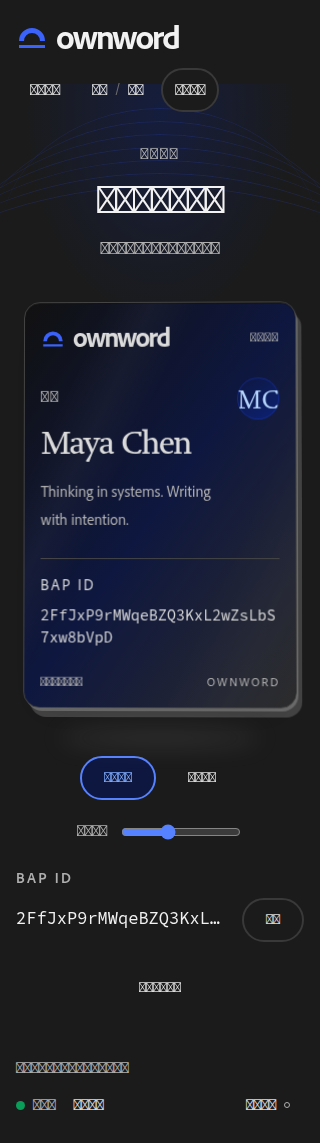
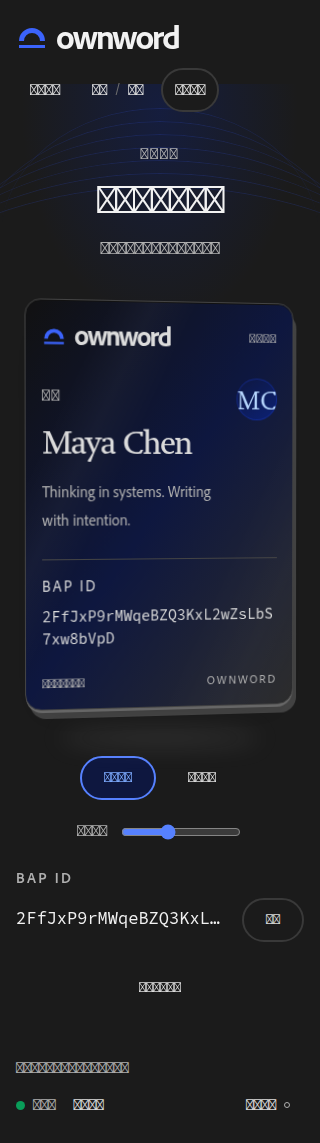
主题一致性：8 屏深浅布局零位移断言与状态机移植契约 (PRD v0.1_20260909-195114)

diff --git a/check-browser.py b/check-browser.py
@@ -103,8 +103,22 @@ def pref(locale='en', theme='light'):
 
 WIDTHS = (320, 390, 768, 960)
 
+def freeze_animations():
+    """Pin every running animation to t=0 so layout signatures are deterministic."""
+    js('document.getAnimations().forEach(a=>{a.currentTime=0;a.pause()});true')
+
+def resume_animations():
+    js('document.getAnimations().forEach(a=>a.play());true')
+
+def layout_signature():
+    freeze_animations()
+    signature = js('JSON.stringify(Array.from(document.querySelectorAll("main button, main h1, main .identifier, main .person-row, main .page-heading")).map(e=>{const r=e.getBoundingClientRect();return [Math.round(r.x),Math.round(r.y),Math.round(r.width),Math.round(r.height)]}))')
+    resume_animations()
+    return signature
+
 def inspect(label, matrix=False):
     combinations = [('en', 'light'), ('en', 'dark'), ('zh', 'light'), ('zh', 'dark')] if matrix else [('en', 'light')]
+    light_layout = None
     for locale, theme in combinations:
         pref(locale, theme)
         for width in WIDTHS:
@@ -112,6 +126,15 @@ def inspect(label, matrix=False):
             settle()
             expect('document.documentElement.scrollWidth <= innerWidth', f'{label} {locale}/{theme} {width}px no page overflow')
             expect('Array.from(document.querySelectorAll("main button, main input:not([hidden]), main textarea")).filter(e=>e.getBoundingClientRect().width).every(e=>{const r=e.getBoundingClientRect();return r.left>=-1&&r.right<=innerWidth+1})', f'{label} {locale}/{theme} {width}px controls fit')
+        if locale == 'en':
+            call('set', 'viewport', 390, 800); settle()
+            signature = layout_signature()
+            if theme == 'light':
+                light_layout = signature
+            else:
+                assert signature == light_layout, f'{label}: layout shifted between light and dark\n{light_layout}\n{signature}'
+                results.append(f'{label} en light and dark layouts match')
+                print(f'PASS {label} en light and dark layouts match', flush=True)
         call('set', 'viewport', 320, 800)
         settle()
         expect('Array.from(document.querySelectorAll("main button, main input:not([hidden]), main textarea")).filter(e=>e.getBoundingClientRect().width).every(e=>{const r=e.getBoundingClientRect();return r.width>=24&&r.height>=44})', f'{label} {locale}/{theme} 320px touch targets')

diff --git a/implementation-handoff.md b/implementation-handoff.md
@@ -32,6 +32,40 @@
 
 `check-model.cjs` 是这套契约的可执行回归测试，生产实现应保留等价断言。
 
+动作与转移（`model.js` 的 `reducer`，可直接照搬）：
+
+| 动作 | 效果 |
+| --- | --- |
+| `CONNECT` | 打开钱包确认弹窗 |
+| `CONNECTED` | `wallet=true`、进入 `resolving`、`epoch+1` |
+| `RESOLVED {scenario}` | `resolveFail` → `resolve-error`；`existing` → `identity`；`incomplete` → `setup` 且 `incomplete=true`；否则 → `setup` |
+| `RETRY_RESOLVE` | 重新进入 `resolving`、`epoch+1` |
+| `CONNECT_FAILED` | `error=connectFailed`、关闭弹窗 |
+| `DRAFT {field,value}` | 只改 `draft`，清除提示与错误 |
+| `REVIEW` | 进入 `review` |
+| `EDIT` | 进入 `edit`，`draft=profile` |
+| `AUTHORIZE {operation}` | 打开该操作的钱包确认弹窗 |
+| `CANCEL` | 关闭弹窗；`connect` → `connectCancelled`，`create` → `createCancelled`，`save` → `saveCancelled` 并回到表单 |
+| `PROCESS {operation}` | 关闭弹窗、进入 `busy`、`epoch+1` |
+| `RESULT {operation,fail}` | 失败 → `createFailed`/`saveFailed` 且保留 `draft`；成功 → `create` 进 `ready`、`save` 进 `identity`，`profile=draft`、`published=true` |
+| `GO {page}` | 直接切换页面并清提示 |
+| `DISCARD_ASK {page}` / `DISCARD` / `STAY` | 离开未保存表单的三分支 |
+| `SWITCH` | 回到初始态但保留钱包、切换 `account`、进入 `resolving`、`epoch+1` |
+| `DISCONNECT` | 回到初始态、`epoch+1` |
+
+文件对应关系（原型 → 生产模块）：
+
+| 原型 | 生产 |
+| --- | --- |
+| `model.js` | 状态层（store/reducer）与其单元测试 |
+| `app.jsx` 的页面分支 | 路由与页面组件 |
+| `app.jsx` 的计时器与副作用 | 真实网络调用、会话恢复、剪贴板 |
+| `components.jsx` | 设计系统适配层（生产直接用组件库，不再需要 DOM 适配） |
+| `app.css` | 主题与布局样式 |
+| `vendor/` | 包管理器依赖 |
+| `check-model.cjs` | 状态机回归测试 |
+| `check-browser.py`、`check-offline.py`、`check-tokens.py` | 端到端与一致性测试的起点 |
+
 ## 3. 模拟点 → 生产替换
 
 | 原型行为 | 生产替换 | 输入 / 输出 | 验收 |
